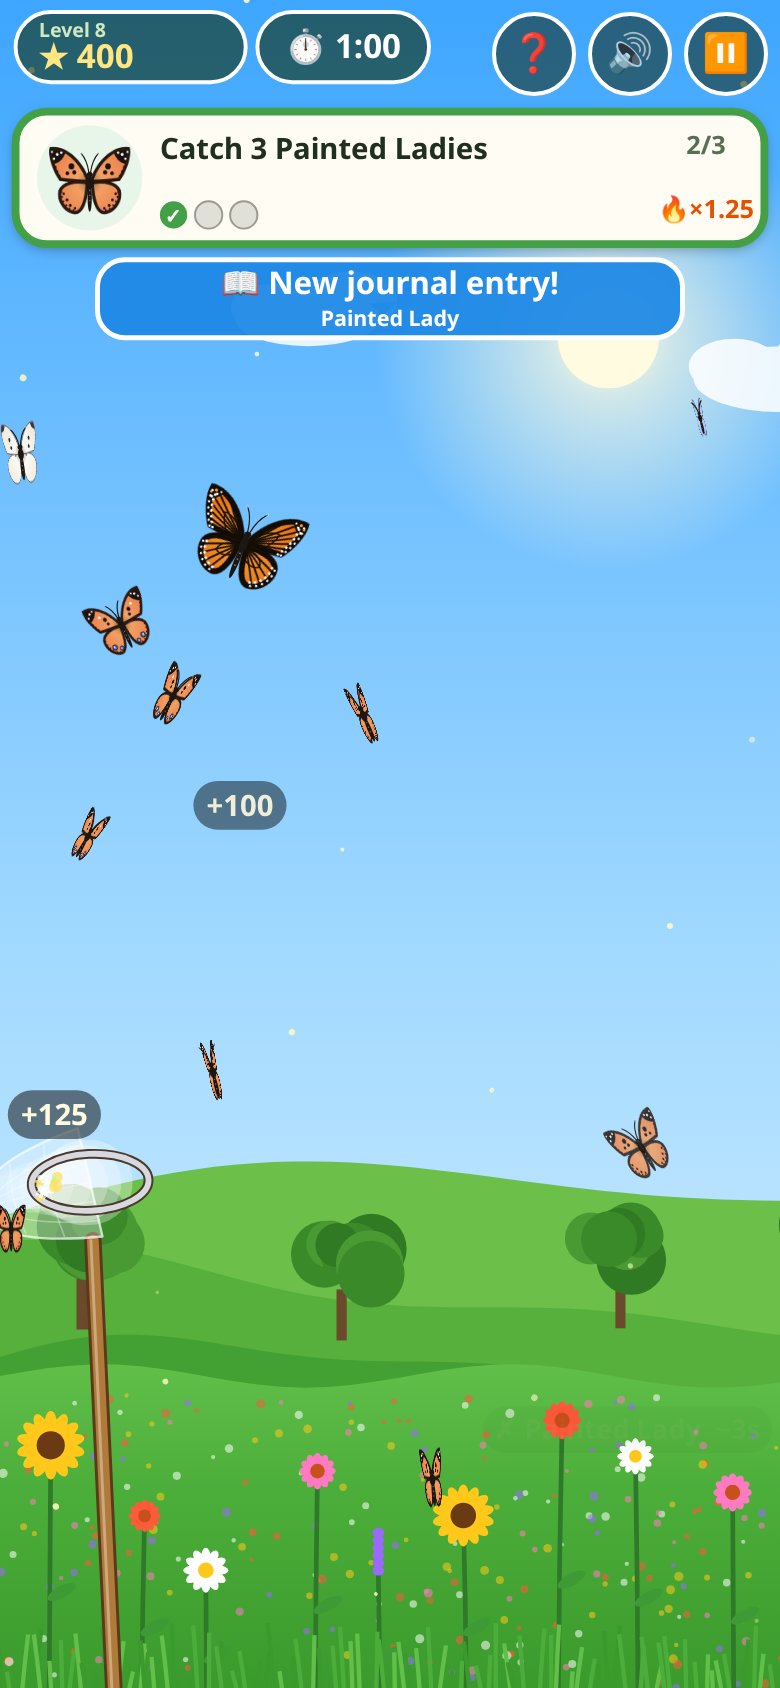
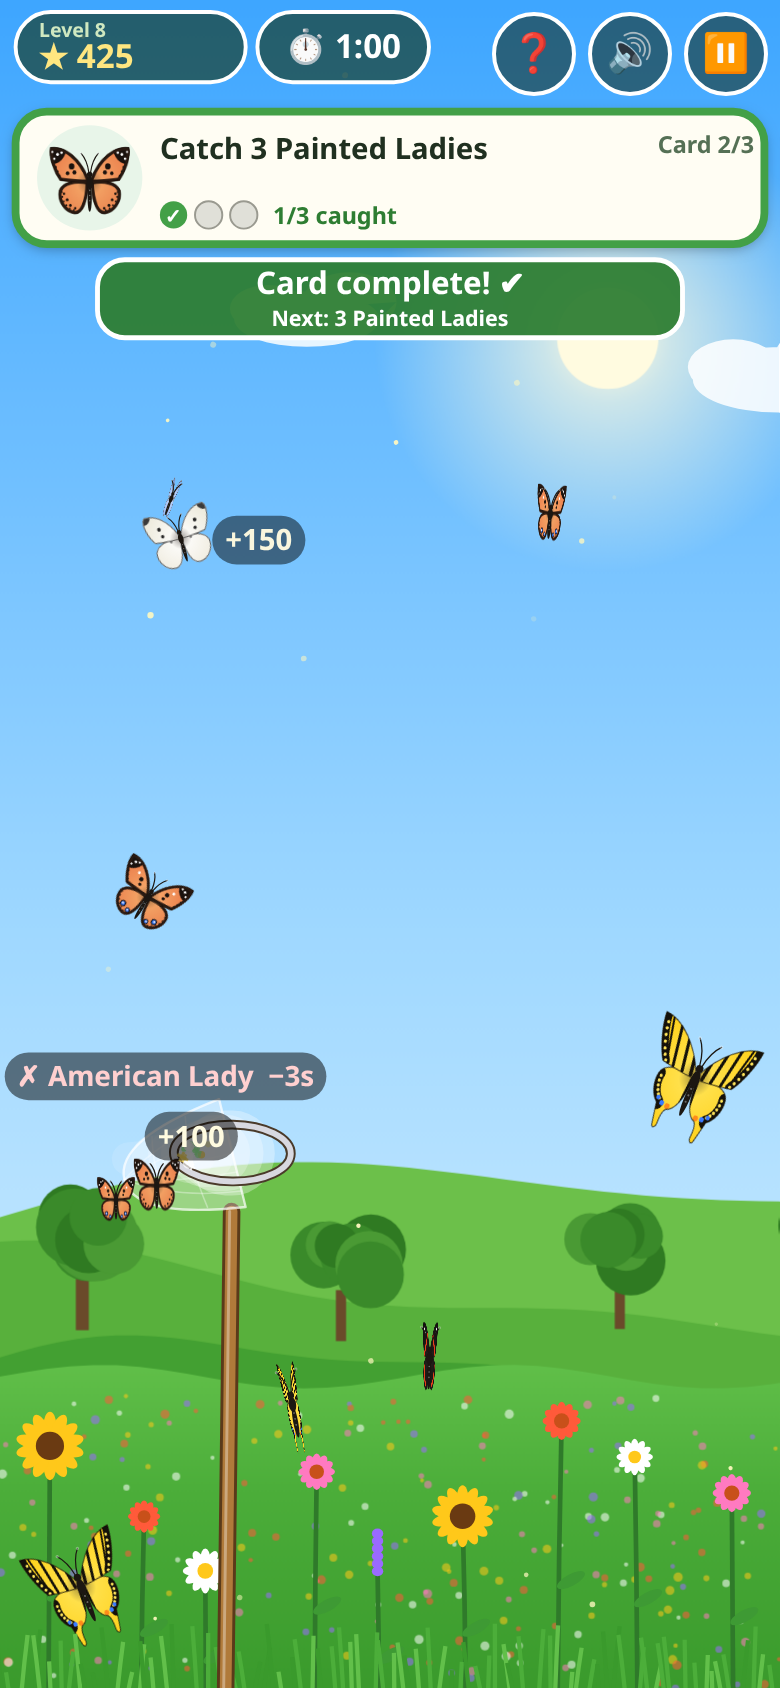
Target card: label card index 'Card 2/3' and show 'N/M caught' beside progress circles; SW v3

diff --git a/index.html b/index.html
@@ -607,8 +607,9 @@ function drawHUD(){const sc=HUD.score,tm=HUD.timer,cd=HUD.card;reg('score','hud'
  const tx=cd.x+74,tw=cd.w-74-58;const title=cardTitle(c0);let fs=15;let lines=wrap(title,tw,fs);while(lines.length>2&&fs>10){fs--;lines=wrap(title,tw,fs)}
  lines.slice(0,2).forEach((l,i)=>txt(l,tx,cd.y+(lines.length>1?15:20)+i*(fs+2),fs,'#203020','left'));
  // progress pips
- const n=c0.n,pr=Math.min(7,Math.max(4.5,(tw/n-4)/2));for(let i=0;i<n;i++){const px=tx+pr+i*(pr*2+4),py=cd.y+cd.h-15;g.beginPath();g.arc(px,py,pr,0,TAU);if(i<c0.got){g.fillStyle='#43a047';g.fill();txt('✓',px,py+1,pr*1.5,'#fff')}else{g.fillStyle='#e0e0d8';g.fill();g.strokeStyle='#9a9a90';g.lineWidth=1;g.stroke()}}
- const rx=cd.x+cd.w-30;txt(endless?'#'+(ci+1):(ci+1)+'/'+cards.length,rx,cd.y+18,13,'#557055');if(streak>0){const m=1+Math.min(streak,8)*.25;txt('🔥×'+m.toFixed(m%1?2:0).replace(/0$/,''),rx,cd.y+cd.h-17,fitSize('🔥×'+m,52,13),'#e65100')}
+ const n=c0.n,cnt=Math.min(c0.got,n)+'/'+n+' caught';g.font='bold 12px '+FONT;const cw2=g.measureText(cnt).width+8;const pr=Math.min(7,Math.max(4,((tw-cw2)/n-4)/2));for(let i=0;i<n;i++){const px=tx+pr+i*(pr*2+4),py=cd.y+cd.h-15;g.beginPath();g.arc(px,py,pr,0,TAU);if(i<c0.got){g.fillStyle='#43a047';g.fill();txt('✓',px,py+1,pr*1.5,'#fff')}else{g.fillStyle='#e0e0d8';g.fill();g.strokeStyle='#9a9a90';g.lineWidth=1;g.stroke()}}
+ txt(cnt,tx+n*(pr*2+4)+4,cd.y+cd.h-14,fitSize(cnt,Math.max(30,tw-n*(pr*2+4)-4),12),'#2e7d32','left');
+ const rx=cd.x+cd.w-30;const ct=endless?'Card #'+(ci+1):'Card '+(ci+1)+'/'+cards.length;txt(ct,rx,cd.y+18,fitSize(ct,54,12),'#557055');if(streak>0){const m=1+Math.min(streak,8)*.25;txt('🔥×'+m.toFixed(m%1?2:0).replace(/0$/,''),rx,cd.y+cd.h-17,fitSize('🔥×'+m,52,13),'#e65100')}
  g.restore()}
 function drawLabels(){for(const l of LBL){reg('lbl','lbl',l);const k=l.t/l.life;const a=k<.75?1:1-(k-.75)/.25;const s=k<.12?.6+.4*EASE.back(k/.12):1;g.save();g.globalAlpha=a;g.translate(l.x+l.w/2,l.y+l.h/2);g.scale(s,s);rrect(g,-l.w/2,-l.h/2,l.w,l.h,l.h/2);g.fillStyle='rgba(0,0,0,.5)';g.fill();txt(l.txt,0,1,l.size,l.col);g.restore()}
  if(BANNERS.length&&BANNERS[0].on){const b=BANNERS[0],r=b.rect;reg('banner','hud',r);const k=b.t/b.life;const a=k<.85?1:1-(k-.85)/.15;const s=k<.15?EASE.back(k/.15):1;g.save();g.globalAlpha=a;g.translate(r.x+r.w/2,r.y+r.h/2);g.scale(s,s);rrect(g,-r.w/2,-r.h/2,r.w,r.h,14);g.fillStyle=b.bg;g.fill();g.strokeStyle='#fff';g.lineWidth=2.5;g.stroke();

diff --git a/src/ui.js b/src/ui.js
@@ -38,8 +38,9 @@ function drawHUD(){const sc=HUD.score,tm=HUD.timer,cd=HUD.card;reg('score','hud'
  const tx=cd.x+74,tw=cd.w-74-58;const title=cardTitle(c0);let fs=15;let lines=wrap(title,tw,fs);while(lines.length>2&&fs>10){fs--;lines=wrap(title,tw,fs)}
  lines.slice(0,2).forEach((l,i)=>txt(l,tx,cd.y+(lines.length>1?15:20)+i*(fs+2),fs,'#203020','left'));
  // progress pips
- const n=c0.n,pr=Math.min(7,Math.max(4.5,(tw/n-4)/2));for(let i=0;i<n;i++){const px=tx+pr+i*(pr*2+4),py=cd.y+cd.h-15;g.beginPath();g.arc(px,py,pr,0,TAU);if(i<c0.got){g.fillStyle='#43a047';g.fill();txt('✓',px,py+1,pr*1.5,'#fff')}else{g.fillStyle='#e0e0d8';g.fill();g.strokeStyle='#9a9a90';g.lineWidth=1;g.stroke()}}
- const rx=cd.x+cd.w-30;txt(endless?'#'+(ci+1):(ci+1)+'/'+cards.length,rx,cd.y+18,13,'#557055');if(streak>0){const m=1+Math.min(streak,8)*.25;txt('🔥×'+m.toFixed(m%1?2:0).replace(/0$/,''),rx,cd.y+cd.h-17,fitSize('🔥×'+m,52,13),'#e65100')}
+ const n=c0.n,cnt=Math.min(c0.got,n)+'/'+n+' caught';g.font='bold 12px '+FONT;const cw2=g.measureText(cnt).width+8;const pr=Math.min(7,Math.max(4,((tw-cw2)/n-4)/2));for(let i=0;i<n;i++){const px=tx+pr+i*(pr*2+4),py=cd.y+cd.h-15;g.beginPath();g.arc(px,py,pr,0,TAU);if(i<c0.got){g.fillStyle='#43a047';g.fill();txt('✓',px,py+1,pr*1.5,'#fff')}else{g.fillStyle='#e0e0d8';g.fill();g.strokeStyle='#9a9a90';g.lineWidth=1;g.stroke()}}
+ txt(cnt,tx+n*(pr*2+4)+4,cd.y+cd.h-14,fitSize(cnt,Math.max(30,tw-n*(pr*2+4)-4),12),'#2e7d32','left');
+ const rx=cd.x+cd.w-30;const ct=endless?'Card #'+(ci+1):'Card '+(ci+1)+'/'+cards.length;txt(ct,rx,cd.y+18,fitSize(ct,54,12),'#557055');if(streak>0){const m=1+Math.min(streak,8)*.25;txt('🔥×'+m.toFixed(m%1?2:0).replace(/0$/,''),rx,cd.y+cd.h-17,fitSize('🔥×'+m,52,13),'#e65100')}
  g.restore()}
 function drawLabels(){for(const l of LBL){reg('lbl','lbl',l);const k=l.t/l.life;const a=k<.75?1:1-(k-.75)/.25;const s=k<.12?.6+.4*EASE.back(k/.12):1;g.save();g.globalAlpha=a;g.translate(l.x+l.w/2,l.y+l.h/2);g.scale(s,s);rrect(g,-l.w/2,-l.h/2,l.w,l.h,l.h/2);g.fillStyle='rgba(0,0,0,.5)';g.fill();txt(l.txt,0,1,l.size,l.col);g.restore()}
  if(BANNERS.length&&BANNERS[0].on){const b=BANNERS[0],r=b.rect;reg('banner','hud',r);const k=b.t/b.life;const a=k<.85?1:1-(k-.85)/.15;const s=k<.15?EASE.back(k/.15):1;g.save();g.globalAlpha=a;g.translate(r.x+r.w/2,r.y+r.h/2);g.scale(s,s);rrect(g,-r.w/2,-r.h/2,r.w,r.h,14);g.fillStyle=b.bg;g.fill();g.strokeStyle='#fff';g.lineWidth=2.5;g.stroke();

diff --git a/sw.js b/sw.js
@@ -1,4 +1,4 @@
-const P='butterfly-net-catch-',V=P+'v2',OLD=[],FILES=['./','index.html','manifest.json','icon-192.png','icon-512.png'];
+const P='butterfly-net-catch-',V=P+'v3',OLD=[],FILES=['./','index.html','manifest.json','icon-192.png','icon-512.png'];
 self.addEventListener('install',e=>{e.waitUntil(caches.open(V).then(c=>c.addAll(FILES)));self.skipWaiting()});
 self.addEventListener('activate',e=>{e.waitUntil(caches.keys().then(k=>Promise.all(k.filter(n=>n!=V&&(n.startsWith(P)||OLD.some(o=>n.startsWith(o)))).map(n=>caches.delete(n)))).then(()=>self.clients.claim()))});
 self.addEventListener('fetch',e=>{if(e.request.method!='GET')return;e.respondWith(fetch(e.request).then(r=>{if(r.ok){const cp=r.clone();caches.open(V).then(c=>c.put(e.request,cp))}return r}).catch(()=>caches.open(V).then(c=>c.match(e.request,{ignoreSearch:true}).then(r=>r||(e.request.mode=='navigate'?c.match('./'):undefined)))))});
